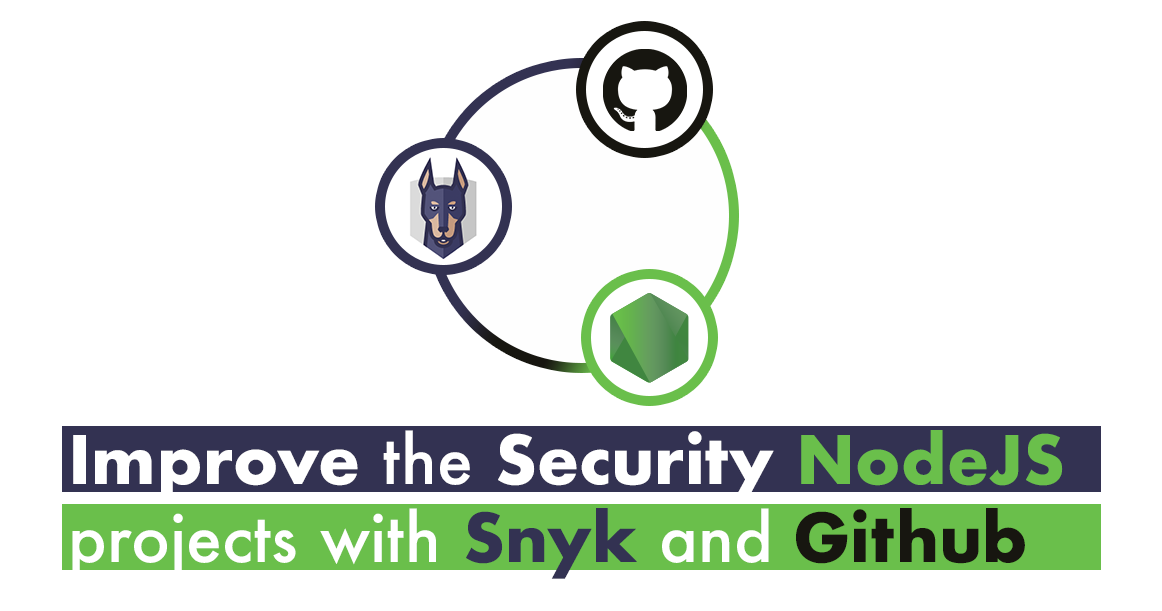
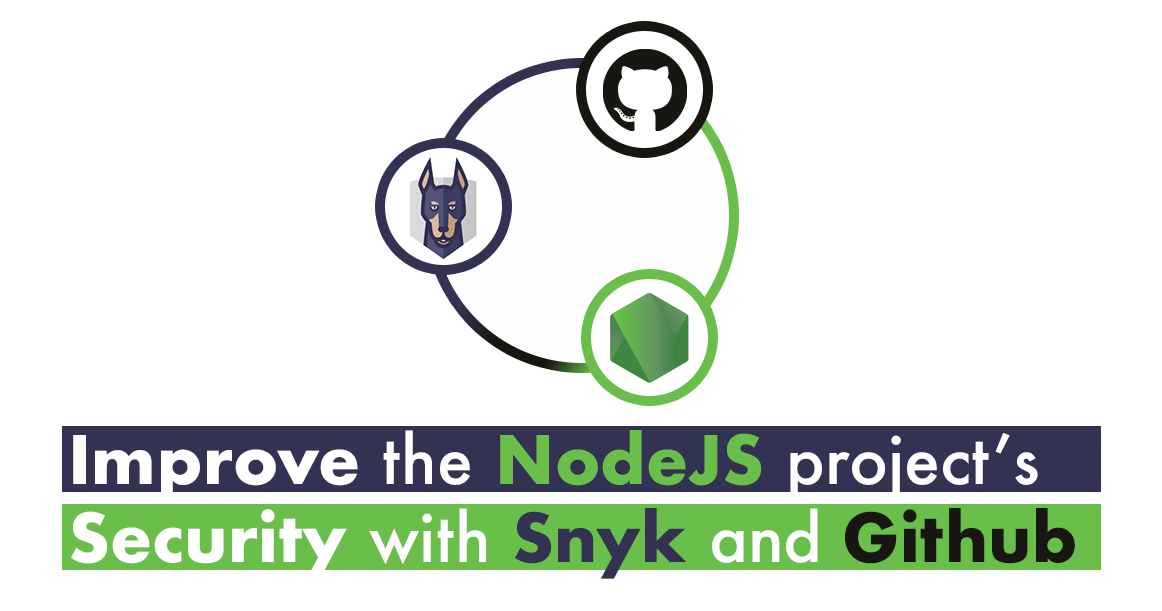
Improve doc and include gif

Changed region(s): [[0.062, 0.8396, 0.9294, 0.964], [0.4028, 0.6841, 0.9294, 0.8085]]

diff --git a/README.md b/README.md
@@ -20,15 +20,13 @@
   <br />
 </p>
 
-<!--
 <p align="center">
   <img src="assets/video.gif" />
 </p>
--->
 
 ## 🔖 Description
 
-In this tutorial I want to show you how you can link your **Github** account with **Snyk** and improve the security of your **NodeJS** projects by following the instructions that Snyk shows you.
+In this tutorial I want to show you how to link your **Github** account with **Snyk** and how to increase the security of your **NodeJS** projects.
 
 ## ✅ Prerequisites
 
@@ -39,7 +37,7 @@ In order to work with this project, your local environment must have at least th
 
 ## 📐 How to work with this project in Snyk and Github
 
-First of all you must have create a user account in **[Snyk](https://app.snyk.io/login)** with your **Github** account.
+First of all you need to create an user account in **[Snyk](https://app.snyk.io/login)** with your **Github** account.
 
 1⃣ In this tutorial you can see that we have these dependencies in the "package.json" file:
 
@@ -77,15 +75,15 @@ In the following link you can read more info about [Semantic Versioning](https:/
 
 The following video shows how you can create a Snyk Account with Github.
 
-[![Video](./assets/youtube.svg)](https://youtu.be/xxx)
+[![Video](./assets/youtube.svg)](https://youtu.be/zzPkK29_EGM)
 
-How the circumflex ^ can to resolver severals vulnerabilities of our proyects.
+How the circumflex ^ can resolve several vulnerabilities of our projects.
 
-[![Video](./assets/youtube.svg)](https://youtu.be/xxx)
+[![Video](./assets/youtube.svg)](https://youtu.be/O-iViujLoQw)
 
 We can remove all vulnerabilities by reviewing the dependencies and updating them to a higher version.
 
-[![Video](./assets/youtube.svg)](https://youtu.be/xxx)
+[![Video](./assets/youtube.svg)](https://youtu.be/Vy3uPbH6WX8)
 
 ## 📂 Code Scaffolding
 
@@ -100,9 +98,9 @@ We can remove all vulnerabilities by reviewing the dependencies and updating the
 └── ...
 ```
 
-## ⛽ Review and Update Sependencies
+## ⛽ Review and Update Dependencies
 
-For review and update all npm dependencies of this project you need install in global npm package "npm-check-updates" npm module.
+To review and update all of this project's npm dependencies you will need to install globally the "npm-check-updates" package.
 
 ```bash
 # Install and Run
